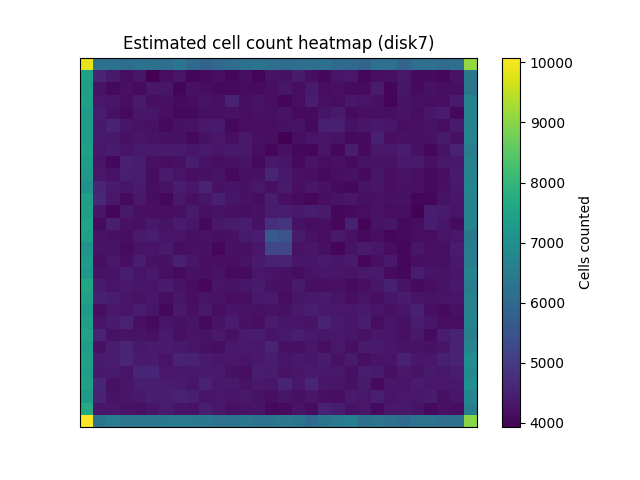
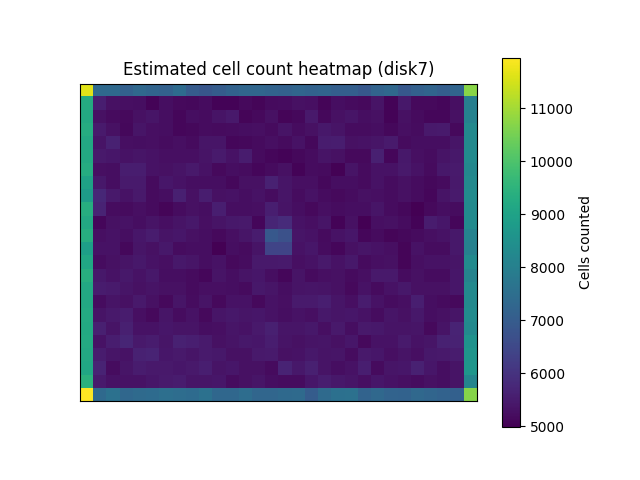
Updated script descriptions and updated all heatmaps to preserve aspect ratio

diff --git a/lfm_data_utilities/hb_quantification/sandbox/plot_positional_mch.py b/lfm_data_utilities/hb_quantification/sandbox/plot_positional_mch.py
@@ -1,9 +1,16 @@
 # -*- coding: utf-8 -*-
-""" Plot estimated Hb metric against clinical Hb metric
+""" Plot MCH across FOV from subsample images in datasets with clinical MCH
 Author: Michelle Khoo (@mwlkhoo)
-Date: 2025.07
+Date: 2025.06
 
-Plots data from the .csv output of get_mch.py
+Takes in a .csv containing:
+- Estimated MCH for an individual cell
+- XY position of given cell
+- Path to image containing given cell
+
+To generate the above .csv, first run get_positional_mch.py to estimate MCH.
+Compile all datasets using compile_positional_datasets.py, which will output
+the necessary .csv.
 """
 
 
@@ -15,8 +22,8 @@ from scipy.stats import binned_statistic_2d
 
 
 # DATASET='disk6'
-DATASET='disk7'
-# DATASET='disk8'
+# DATASET='disk7'
+DATASET='disk8'
 
 f = '../outputs/rwanda_mch_data_positions_processed.csv'
 df = pd.read_csv(f)
@@ -31,11 +38,16 @@ stat, x_edges, y_edges, binnumber = binned_statistic_2d(
     dff['pos_y_estimate'],
     dff['mch_estimate'],
     statistic='mean',
-    bins=30  # adjust bins as needed
+    bins=(30, 24)  # adjust bins as needed
 )
 
 # Plot cell count heatmap
-plt.hist2d(dff['pos_x_estimate'], dff['pos_y_estimate'], bins=30, cmap='viridis')
+counts, _, _ = np.histogram2d(dff['pos_x_estimate'], dff['pos_y_estimate'], bins=(30, 24))
+plt.figure()
+plt.imshow(counts.T, origin='lower',  cmap='viridis',
+    # extent=[x_edges[0], x_edges[-1], y_edges[0], y_edges[-1]],
+    # aspect='auto', cmap='viridis'
+)
 plt.colorbar(label='Cells counted')
 plt.title(f'Estimated cell count heatmap ({DATASET})')
 plt.xticks([])

diff --git a/lfm_data_utilities/hb_quantification/get_positional_mch.py b/lfm_data_utilities/hb_quantification/get_positional_mch.py
@@ -1,5 +1,5 @@
 # -*- coding: utf-8 -*-
-""" Estimate MCH from subsample images in datasets with clinical MCH
+""" Estimate MCH across subsample images in datasets with clinical MCH
 Author: Michelle Khoo (@mwlkhoo)
 Date: 2025.06
 
@@ -14,7 +14,8 @@ workflow) and outputs a new .csv with:
 - Estimated MCV
 - Estimated Hb 
 
-To plot results, use plot_estimated_v_clinical_mch.py or fit_estimated_v_clinical_mch.py
+To plot results, compile all MCH data using compile_positional_datasets.py then run
+plot positional_mch.py
 """
 
 import time
